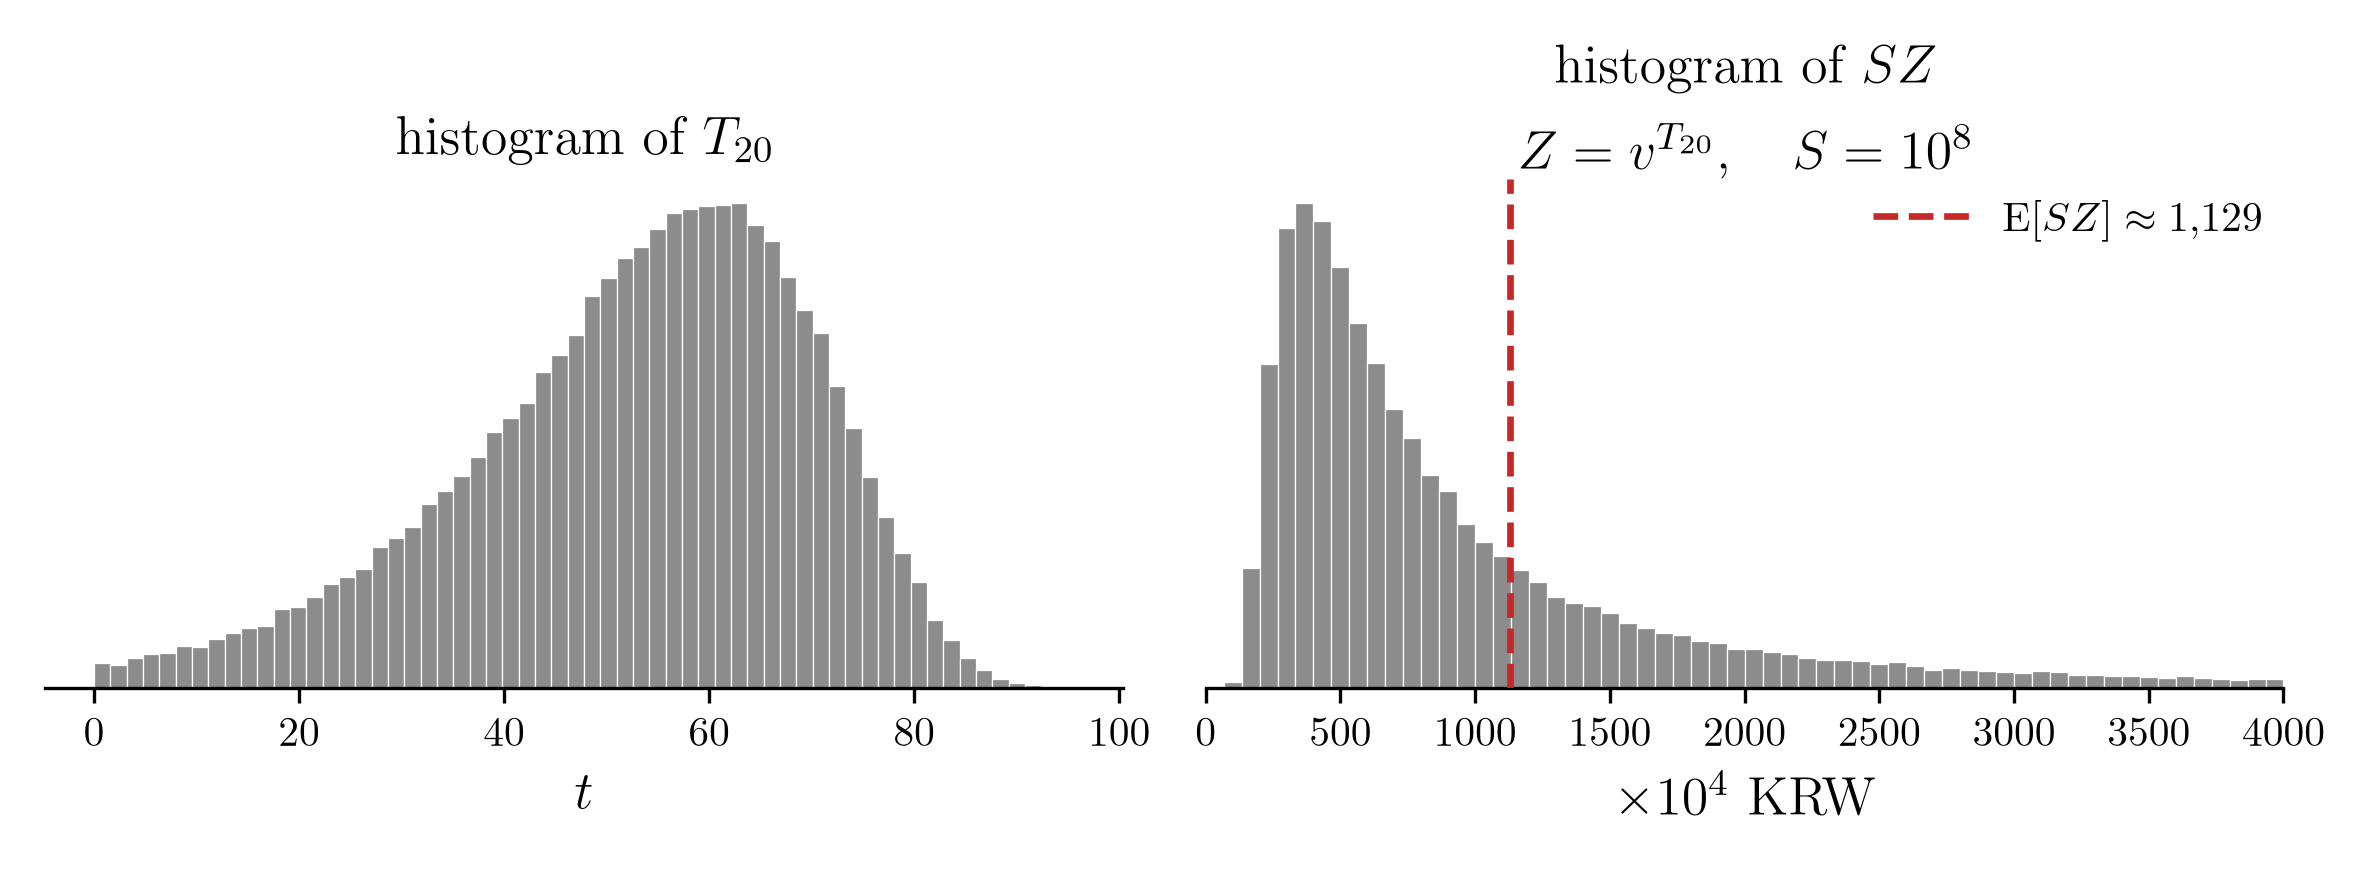
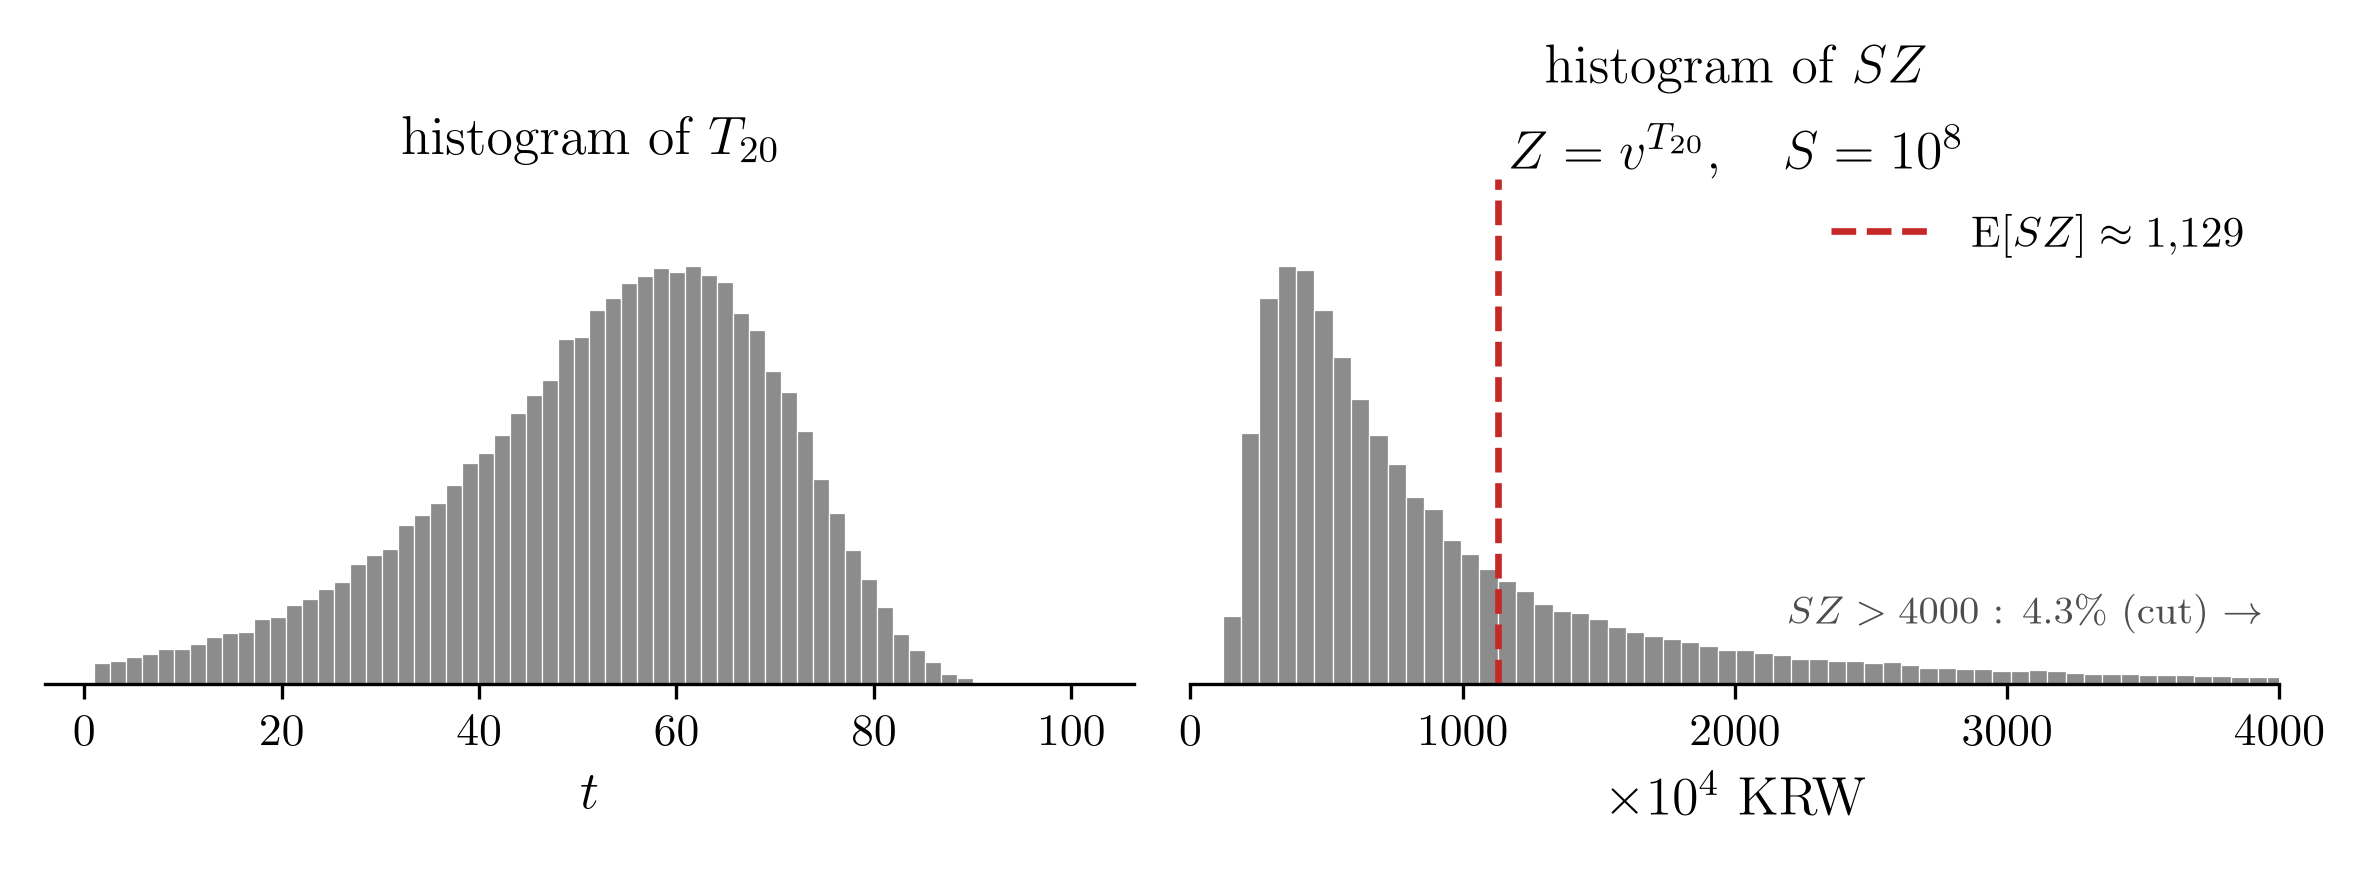
update

diff --git a/docs/posts/05wk-1.html b/docs/posts/05wk-1.html
@@ -197,27 +197,27 @@ window.Quarto = {
 <p><code>-</code> 퀴즈2 문제11: 남은 수명이 확률 0.5 로 2년, 0.5 로 30년인 사람 한 명에게 1억짜리 보험을 팔 때(<span class="math inline">\(i = 0.05\)</span>) 두 가지 보험료의 비교</p>
 <table class="caption-top table">
 <colgroup>
-<col style="width: 53%">
-<col style="width: 5%">
-<col style="width: 41%">
+<col style="width: 39%">
+<col style="width: 18%">
+<col style="width: 42%">
 </colgroup>
 <thead>
 <tr class="header">
-<th>받은 보험료</th>
-<th>망할 확률</th>
-<th></th>
+<th style="text-align: left;">받은 보험료</th>
+<th style="text-align: center;">망할 확률</th>
+<th style="text-align: left;">비고</th>
 </tr>
 </thead>
 <tbody>
 <tr class="odd">
-<td><span class="math inline">\(10^8\,\mathrm{E}[Z] \approx 5{,}692\)</span> 만원 (EPV)</td>
-<td><span class="math inline">\(0.5\)</span></td>
-<td>회사가 위험하다</td>
+<td style="text-align: left;"><span class="math inline">\(10^8\,\mathrm{E}[Z] \approx 5{,}692\)</span> 만원 (EPV)</td>
+<td style="text-align: center;"><span class="math inline">\(0.5\)</span></td>
+<td style="text-align: left;">회사가 위험하다</td>
 </tr>
 <tr class="even">
-<td><span class="math inline">\(10^8 v^2 \approx 9{,}070\)</span> 만원</td>
-<td><span class="math inline">\(0\)</span></td>
-<td>30년을 살면 29,201만원이 남는다. (가입자에게 너무 비싸다)</td>
+<td style="text-align: left;"><span class="math inline">\(10^8 v^2 \approx 9{,}070\)</span> 만원</td>
+<td style="text-align: center;"><span class="math inline">\(0\)</span></td>
+<td style="text-align: left;">30년을 살면 29,201만원이 남는다(가입자에게 너무 비싸다)</td>
 </tr>
 </tbody>
 </table>
@@ -242,24 +242,21 @@ window.Quarto = {
 <p>이 모형에서 EPV <span class="math inline">\(S\bar{A}_{20}\)</span> 을 구하려면 어려운 적분값을 계산해야 한다. 여기서는 그 계산을 건너뛰고 컴퓨터로 구한 값을 쓴다. <span class="math inline">\(T_{20}\)</span> 을 10만 번 뽑아 <span class="math inline">\(T_{20}\)</span> 과 <span class="math inline">\(SZ\)</span> 의 히스토그램을 그리고 <span class="math inline">\(SZ\)</span> 의 평균을 구하면 약 <span class="math inline">\(1{,}128.5\)</span> 만원이다(그림의 빨간 파선, 반올림해 1,129).</p>
 <div class="quarto-figure quarto-figure-center">
 <figure class="figure">
-<p><img src="attachments/05wk_hist_T20_SZ.png" class="img-fluid quarto-figure quarto-figure-center figure-img" style="width:75.0%"></p>
+<p><img src="attachments/05wk_hist_T20_SZ.png" class="img-fluid quarto-figure quarto-figure-center figure-img" style="width:100.0%"></p>
 </figure>
 </div>
-<ol type="a">
-<li><p>EPV 를 보험료로 받았다. <span class="math inline">\(P(1+i)^u = S\)</span> 인 <span class="math inline">\(u\)</span> 를 구하라.</p></li>
-<li><p>EPV 를 보험료로 받았을 경우 회사가 망할 확률은 얼마인가.</p></li>
-</ol>
+<ul>
+<li>오른쪽 그림은 꼬리가 오른쪽으로 너무 길어서 가로축을 4,000만원에서 잘랐다. 4,000만원을 넘는 경우가 약 <span class="math inline">\(4.3\%\)</span> 다.</li>
+</ul>
+<p><code>(a)</code> EPV 를 보험료로 받았다. <span class="math inline">\(P(1+i)^u = S\)</span> 인 <span class="math inline">\(u\)</span> 를 구하라.</p>
+<p><code>(b)</code> EPV 를 보험료로 받았을 경우 회사가 망할 확률은 얼마인가.</p>
 <p><code>(풀이)</code></p>
-<ol type="a">
-<li><span class="math inline">\(P = 1{,}128.5\)</span> 만원, <span class="math inline">\(S = 10{,}000\)</span> 만원이다.</li>
-</ol>
+<p><code>(a)</code> <span class="math inline">\(P = 1{,}128.5\)</span> 만원, <span class="math inline">\(S = 10{,}000\)</span> 만원이다.</p>
 <p><span class="math display">\[
 u = \frac{\log(S/P)}{\log(1+i)} = \frac{\log(1/\bar{A}_{20})}{\log(1+i)} = \frac{\log(10{,}000/1{,}128.5)}{\log 1.05} = 44.72 \ \text{년}
 \]</span></p>
 <p>20세인 사람이 적어도 44.72년(64.72세까지)은 살아야 회사가 망하지 않는다(잔고가 음수가 되지 않는다).</p>
-<ol start="2" type="a">
-<li>미리 살펴본 식</li>
-</ol>
+<p><code>(b)</code> 미리 살펴본 식</p>
 <p><span class="math display">\[
 \Pr[SZ &gt; P] = 1 - S_x(u), \qquad u = \frac{\log(S/P)}{\log(1+i)}
 \]</span></p>
@@ -282,6 +279,7 @@ S_{20}(44.72) &amp;= \exp\left\{-\frac{0.0003}{\log 1.07}\times 1.07^{20}\times\
 </figure>
 </div>
 <ul>
+<li>가로축은 위 그림처럼 0.4 에서 잘랐다. 0.4 를 넘는 약 <span class="math inline">\(4.3\%\)</span> 는 그림 밖에 있고, 아래의 빨간 넓이 <span class="math inline">\(28.56\%\)</span> 에는 이것까지 들어 있다.</li>
 <li>파란 점선의 값 <span class="math inline">\(\bar{A}_{20} = 0.1129\)</span> 는 <span class="math inline">\(P/S\)</span> 이고, <span class="math inline">\(Z\)</span>의 평균값이다.</li>
 <li>파란 점선의 값 <span class="math inline">\(\bar{A}_{20}\)</span>는 히스토그램이 그리는 <span class="math inline">\(Z\)</span>의 평균값이다. 따라서 파란 선을 기준(0)으로 놓고 히스토그램을 보면, 곧 <span class="math inline">\(Z - \bar{A}_{20}\)</span> 을 보면 그 평균은 0 이다. 손익이 평균적으로 0 이라는 말이 이것이다.</li>
 <li>그러나 파란 점선의 값 <span class="math inline">\(\bar{A}_{20}\)</span>는 히스토그램이 그리는 <span class="math inline">\(Z\)</span>의 중앙값이 아니다. 즉 파란 선을 기준(0)으로 놓고 히스토그램을 볼때, 오른쪽의 넓이는 전체의 <span class="math inline">\(50\%\)</span> 가 아니라 약 <span class="math inline">\(28.56\%\)</span> 다.</li>
@@ -315,11 +313,12 @@ P = S v^{u} = 10{,}000 \times 1.05^{-20.45} = 3{,}687 \ \text{만원}
 <p>해석해보자.</p>
 <div class="quarto-figure quarto-figure-center">
 <figure class="figure">
-<p><img src="attachments/05wk_T20_Z20_5pct.png" class="img-fluid quarto-figure quarto-figure-center figure-img" style="width:75.0%"></p>
+<p><img src="attachments/05wk_T20_Z20_5pct.png" class="img-fluid quarto-figure quarto-figure-center figure-img" style="width:100.0%"></p>
 </figure>
 </div>
 <ul>
 <li>왼쪽은 <span class="math inline">\(T_{20}\)</span>, 오른쪽은 <span class="math inline">\(Z\)</span> 의 히스토그램이다.</li>
+<li>오른쪽 그림도 가로축을 0.4 에서 잘랐다. 빨간 <span class="math inline">\(5\%\)</span> 가운데 약 <span class="math inline">\(4.3\%\)</span> 는 0.4 밖에 있어서 오른쪽 그림에서는 빨간 막대가 거의 안 보인다. 같은 사람들이 왼쪽 그림에서는 다 보인다.</li>
 <li>선은 세 쌍이다. 빨간 파선은 망할 확률을 <span class="math inline">\(5\%\)</span> 로 맞춘 <span class="math inline">\(u \approx 20.45\)</span> 와 그때의 보험료 <span class="math inline">\(P/S = v^u \approx 0.3687\)</span> 이다. 파란 점선은 EPV <span class="math inline">\(\bar{A}_{20} \approx 0.1129\)</span> 와 그에 대응하는 <span class="math inline">\(t \approx 44.72\)</span> 다. 검은 점선은 03wk-2 에서 본 평균 수명 <span class="math inline">\(\mathrm{E}[T_{20}] \approx 52.70\)</span> 과 <span class="math inline">\(v^{\mathrm{E}[T_{20}]} \approx 0.0764\)</span> 로, 참고로 그렸다.</li>
 <li>왼쪽 그림에서 <span class="math inline">\(T_{20} &lt; u \approx 20.45\)</span> 인 사람들은 40.45세 전에 죽는 사람들이며, 이 경우가 <span class="math inline">\(5\%\)</span> 다.</li>
 <li>오른쪽 그림에서 파란 점선 EPV <span class="math inline">\(\bar{A}_{20} \approx 0.1129\)</span> 에 해당하는 보험료를 받으면 예제1 에서처럼 <span class="math inline">\(28.6\%\)</span> 로 망한다. 이 파란 선을 오른쪽으로 밀어 빨간 선까지 가야 망할 확률이 <span class="math inline">\(5\%\)</span> 가 된다. 그러다 보니 EPV(1,129만원)의 세 배가 넘는 가격까지 밀어야 한다.</li>

diff --git a/docs/index.html b/docs/index.html
@@ -238,7 +238,7 @@ Author
 </thead>
 <tbody class="list">
 
-<tr data-index="0" data-listing-date-sort="1790640000000" data-listing-file-modified-sort="1790644964000" data-listing-date-modified-sort="NaN" data-listing-reading-time-sort="5" data-listing-word-count-sort="964" data-listing-title-sort="**05wk-1**: 보험급부 (2)" data-listing-filename-sort="05wk-1.qmd">
+<tr data-index="0" data-listing-date-sort="1790640000000" data-listing-file-modified-sort="1790646336000" data-listing-date-modified-sort="NaN" data-listing-reading-time-sort="5" data-listing-word-count-sort="900" data-listing-title-sort="**05wk-1**: 보험급부 (2)" data-listing-filename-sort="05wk-1.qmd">
 <td>
 <span class="listing-date">Sep 29, 2026</span>
 </td>
